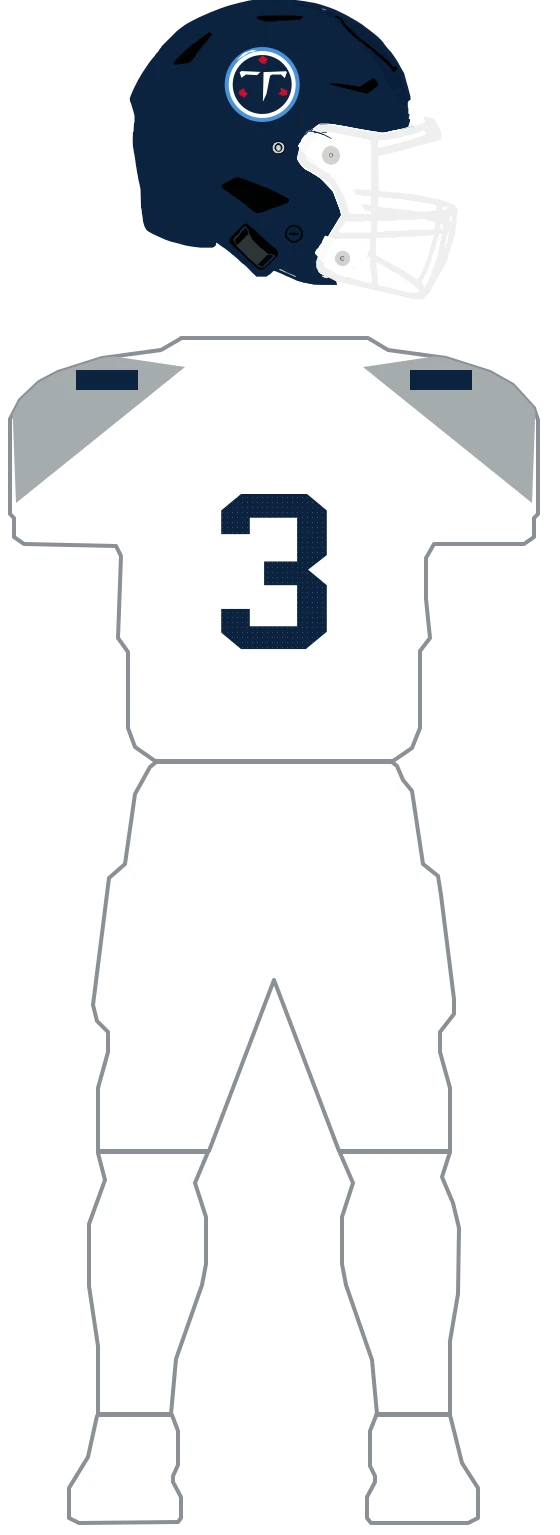
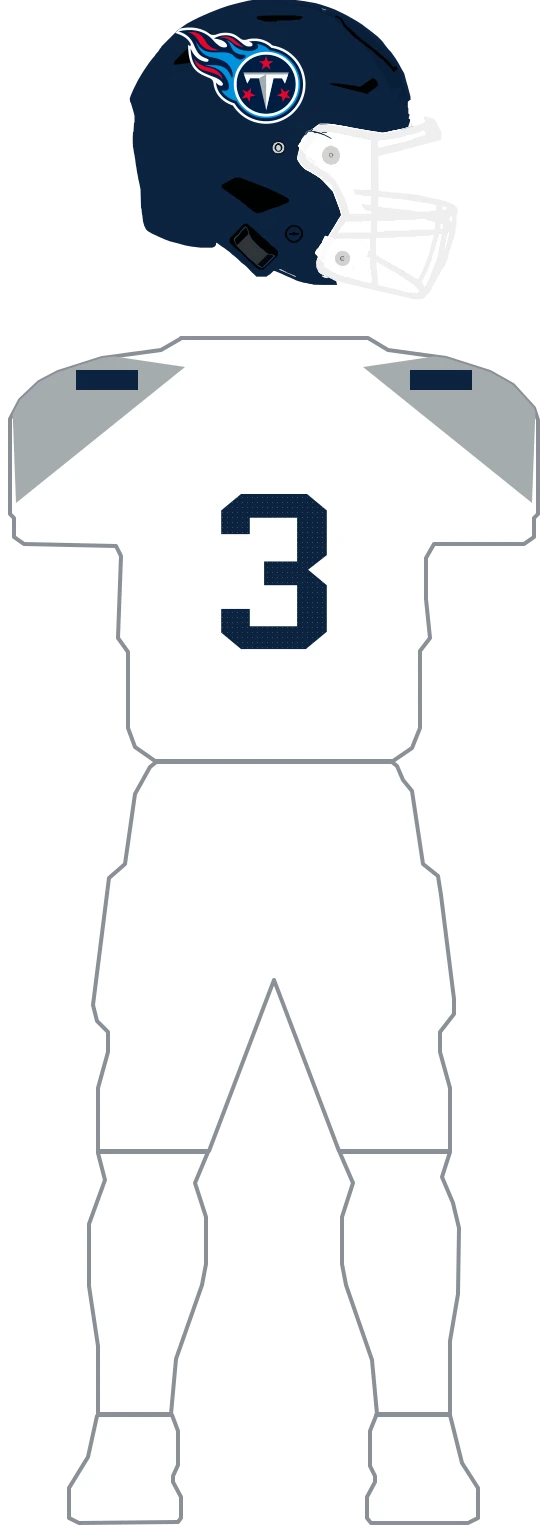
fix(uniforms): restore Titans flaming helmet decal and pants options (#763)

Changed region(s): [[0.3339, 0.0, 0.5464, 0.0919]]

diff --git a/lib/uniforms/teams/titans.ts b/lib/uniforms/teams/titans.ts
@@ -1,4 +1,4 @@
-// Tennessee's construction geometry — the circle-T decal paths, the silver shoulder yoke, and
+// Tennessee's construction geometry — the flaming-T decal paths, the silver shoulder yoke, and
 // the fixed construction colors only. The composable parts definition that consumes them lives in
 // ./titans.parts.ts; the former flat TITANS_UNIFORMS was deleted in the migration that proved
 // parts render byte-identically (see parts-parity.test.ts for the one-time gate).
@@ -12,27 +12,69 @@
 export const TITANS_SILVER = '#A5ACAF';
 export const TITANS_WHITE = '#FFFFFF';
 
-// Provenance: contour trace of the club's mark from the GUD composite — a reproduction
-// of a third-party mark, not original geometry. The mark is NON-FREE upstream
-// (Wikimedia `File:Tennessee Titans Logo 2026.svg`, fair use; trademarked). Licence audit: the
-// vault’s Decisions.md, 2026-09-03.
-//
-// The circle-T: the three rings are CONCENTRIC CIRCLES fitted to the measured disc; the T and the
-// three stars ARE traced. THE FLAME TAIL IS DROPPED (a four-color interleave about two px per band).
-// Re-derive the whole mark from a larger source before treating it as finished.
-export const TITANS_DECAL_RING_OUTER_PATH =
-  'M328.9,237.0 A75.0,75.0 0 1 0 478.9,237.0 A75.0,75.0 0 1 0 328.9,237.0 Z';
-export const TITANS_DECAL_RING_INNER_PATH =
-  'M336.9,237.0 A67.0,67.0 0 1 0 470.9,237.0 A67.0,67.0 0 1 0 336.9,237.0 Z';
-export const TITANS_DECAL_FIELD_PATH =
-  'M344.9,237.0 A59.0,59.0 0 1 0 462.9,237.0 A59.0,59.0 0 1 0 344.9,237.0 Z';
-export const TITANS_DECAL_T_PATH =
-  'M450.8,210.1 L453.5,212.2 L449.1,224.4 L441.5,217.0 L424.0,217.0 L419.6,219.5 L412.4,256.1 L405.3,271.5 L406.6,212.2 L450.4,210.5 Z M361.9,210.1 L400.4,211.8 L393.7,218.3 L371.3,217.0 L362.4,223.6 L358.8,213.0 L361.5,210.5 Z M383.8,167.9 L393.7,169.5 L377.1,173.1 L351.7,189.4 L366.9,174.0 L383.4,168.3 Z';
-export const TITANS_DECAL_STARS_PATH =
-  'M441.0,243.1 L454.0,249.2 L454.0,257.7 L445.0,259.7 L435.7,256.1 L441.5,250.8 L440.6,243.5 Z M367.3,243.9 L369.5,251.2 L375.3,255.3 L367.7,263.4 L356.6,255.7 L357.9,249.6 L366.9,244.3 Z M404.4,178.8 L415.1,186.1 L409.7,195.9 L402.1,194.3 L395.4,187.4 L403.9,179.2 Z';
-// No Titans palette carries the mark's red either — same reason as the silver above.
-export const TITANS_DECAL_RED = '#C8102E';
-export const TITANS_DECAL_LIGHT_BLUE = '#4B92DB';
+// Provenance: user-supplied Tennessee-Titans-Logo.svg (DEP-465), club trademark/non-free art.
+// Source SHA-256: f6a30a0b25bd536d0cd0b7ca4a9c3c69f8af022bdc88197f40779cc7d3f2dc4f
+// Direct vector paths and original colors; all 14 supplied paths are retained.
+// Placement only: https://www.gridiron-uniforms.com/GUD/controller/controller.php?action=teams-season&team_id=TEN&year=2025
+// Generated by scripts/uniform-draw/titans_decal.py; coordinates include placement.
+export const TITANS_DECAL_PATHS = [
+  {
+    fill: '#001C43',
+    d: 'M254.937,123.000 L262.461,123.000 L267.078,123.342 L273.405,124.368 L277.680,125.394 L282.126,126.762 L286.914,128.643 L290.506,130.353 L294.097,132.405 L297.688,134.799 L300.082,136.338 L302.305,137.364 L304.528,137.877 L308.461,137.877 L311.539,137.193 L316.327,135.483 L321.115,134.286 L324.535,133.773 L328.981,133.431 L332.401,133.431 L336.848,133.773 L340.610,134.457 L344.372,135.483 L347.792,136.851 L351.725,138.903 L354.974,141.126 L357.368,142.836 L359.933,144.888 L362.669,146.599 L364.892,147.454 L366.602,147.796 L369.851,147.796 L372.758,147.283 L376.178,146.257 L379.770,145.572 L381.822,145.230 L383.874,145.059 L392.595,145.059 L396.699,145.572 L401.145,146.428 L406.446,147.967 L410.550,149.677 L413.286,151.045 L416.706,152.926 L419.955,155.149 L422.349,157.030 L424.059,158.569 L425.428,159.082 L431.242,160.279 L436.030,161.647 L440.818,163.357 L443.725,164.554 L446.290,165.751 L449.539,167.461 L451.933,168.829 L456.037,171.394 L460.141,174.472 L462.022,176.011 L463.732,177.550 L465.613,179.089 L465.955,179.773 L466.639,180.115 L469.717,183.193 L471.770,185.587 L473.651,187.810 L475.703,190.546 L478.781,195.164 L480.662,198.413 L482.714,202.346 L484.253,205.595 L485.792,209.528 L487.502,214.658 L488.870,220.130 L489.725,225.089 L490.238,229.022 L490.580,235.178 L490.580,238.257 L490.238,244.584 L489.383,250.569 L488.699,254.160 L487.331,259.461 L485.450,264.933 L483.569,269.379 L481.688,273.312 L479.978,276.390 L477.926,279.639 L476.558,281.691 L474.506,284.428 L472.796,286.651 L470.743,289.045 L468.349,291.610 L465.100,294.859 L463.732,296.056 L461.167,298.279 L457.918,300.673 L455.011,302.725 L450.223,305.632 L445.606,308.026 L441.331,309.907 L437.227,311.446 L432.097,312.985 L425.941,314.353 L419.955,315.208 L414.654,315.550 L408.840,315.550 L403.710,315.208 L397.725,314.353 L394.476,313.669 L389.688,312.472 L384.045,310.591 L380.625,309.223 L376.520,307.342 L372.758,305.290 L370.193,303.751 L366.602,301.357 L363.353,298.963 L361.130,297.082 L359.249,295.543 L357.197,293.491 L355.829,292.294 L351.725,287.848 L349.844,285.454 L348.476,283.743 L346.253,280.494 L345.398,279.297 L345.398,278.955 L343.517,278.442 L339.755,276.903 L336.677,275.535 L333.086,273.654 L329.665,271.602 L326.758,269.550 L324.022,267.327 L322.312,265.959 L321.457,265.104 L320.431,263.907 L319.576,263.223 L318.037,261.342 L316.669,259.803 L314.275,256.554 L312.736,253.989 L310.684,250.056 L309.316,246.807 L308.119,243.216 L307.264,239.967 L306.751,237.059 L306.238,233.297 L305.554,230.732 L304.528,228.680 L302.989,226.970 L301.621,225.773 L298.885,224.234 L294.268,222.353 L289.138,220.130 L284.349,217.907 L280.587,215.855 L277.509,213.974 L275.286,212.435 L273.405,210.896 L271.695,209.357 L269.301,206.963 L267.762,205.082 L266.223,203.030 L264.342,200.123 L262.290,196.190 L260.751,192.599 L259.383,188.494 L258.015,183.022 L256.989,177.208 L256.305,170.881 L255.792,164.554 L255.792,157.201 L256.647,158.056 L258.015,159.253 L258.699,159.595 L260.067,159.595 L260.922,159.082 L261.093,158.740 L261.093,157.201 L260.238,154.807 L258.528,152.071 L256.305,149.164 L254.766,147.454 L254.082,146.599 L252.714,145.401 L251.517,144.375 L251.175,144.204 L251.175,143.862 L250.320,143.520 L248.268,141.981 L245.361,140.271 L241.428,138.219 L235.100,135.654 L230.312,134.115 L224.327,132.576 L219.368,131.550 L219.026,131.208 L222.788,129.669 L228.089,127.959 L232.364,126.762 L238.862,125.223 L242.967,124.368 L247.584,123.684 L252.030,123.171 Z',
+  },
+  {
+    fill: '#001C43',
+    d: 'M407.301,177.379 L416.193,177.379 L421.836,178.063 L426.625,179.089 L431.071,180.457 L435.175,181.996 L439.450,184.048 L442.528,185.758 L445.093,187.468 L447.487,189.178 L449.368,190.717 L451.762,192.770 L456.037,197.045 L457.576,198.926 L459.628,201.491 L461.680,204.569 L463.903,208.331 L466.126,212.948 L467.323,215.855 L468.862,220.814 L470.059,225.773 L470.743,231.587 L470.914,235.349 L470.914,237.572 L470.572,242.874 L469.888,247.491 L468.862,251.937 L467.494,256.383 L465.613,261.000 L464.245,263.907 L461.851,268.011 L459.970,270.747 L458.431,272.799 L456.892,274.680 L453.814,278.100 L452.104,279.810 L450.736,281.007 L448.513,282.888 L445.435,285.112 L442.870,286.822 L439.621,288.703 L434.833,290.926 L430.729,292.465 L426.796,293.662 L423.033,294.517 L418.587,295.201 L414.141,295.543 L409.353,295.543 L404.907,295.201 L402.000,294.859 L398.067,294.004 L392.082,292.294 L387.807,290.584 L385.071,289.216 L381.822,287.506 L378.059,285.112 L375.152,282.888 L372.929,281.007 L371.219,279.468 L367.457,275.706 L365.918,273.825 L363.524,270.747 L361.643,267.840 L360.104,265.275 L357.710,260.487 L356.342,257.067 L354.974,252.963 L353.777,248.175 L353.093,243.900 L352.751,240.309 L352.751,232.442 L353.264,227.654 L354.290,222.353 L355.658,217.565 L357.539,212.606 L358.736,210.041 L360.788,206.279 L362.669,203.372 L364.379,200.978 L366.260,198.584 L367.799,196.874 L368.996,195.506 L371.903,192.599 L373.784,191.059 L375.836,189.349 L378.914,187.126 L383.190,184.561 L387.636,182.338 L392.424,180.457 L396.357,179.260 L400.803,178.234 L405.420,177.550 Z',
+  },
+  {
+    fill: '#0092DD',
+    d: 'M332.230,148.138 L333.941,148.480 L336.164,149.506 L338.900,151.045 L341.294,152.926 L343.517,154.978 L345.398,156.859 L346.595,158.227 L347.963,159.766 L349.844,161.305 L351.896,162.844 L354.461,164.383 L358.736,166.435 L364.379,168.316 L368.312,169.171 L371.732,169.684 L373.784,169.855 L380.454,169.855 L384.558,169.342 L387.807,168.487 L390.372,167.461 L392.424,166.264 L394.134,164.725 L395.160,163.186 L395.673,161.476 L395.673,160.108 L394.989,158.227 L393.792,156.859 L393.108,156.175 L395.844,156.346 L399.606,157.030 L403.026,158.056 L406.959,159.766 L410.208,161.476 L413.286,163.528 L415.680,165.409 L418.074,167.461 L419.271,168.658 L424.914,169.513 L429.361,170.539 L434.320,172.078 L437.911,173.446 L442.015,175.327 L445.606,177.208 L449.710,179.773 L452.959,182.167 L455.353,184.048 L457.063,185.587 L458.431,186.784 L462.364,190.717 L463.903,192.599 L465.784,194.822 L468.007,197.900 L470.401,201.662 L472.625,205.766 L474.335,209.357 L475.874,213.290 L477.413,218.078 L478.439,222.353 L479.294,227.312 L479.636,230.732 L479.807,233.639 L479.807,239.112 L479.465,244.071 L478.610,249.543 L477.584,254.160 L476.216,258.606 L474.848,262.197 L472.967,266.301 L470.743,270.576 L468.520,274.167 L466.297,277.245 L464.074,279.981 L462.022,282.375 L460.654,283.743 L460.483,284.086 L460.141,284.086 L460.141,284.428 L459.799,284.428 L459.799,284.770 L459.457,284.770 L459.457,285.112 L458.089,286.309 L456.892,287.506 L455.011,289.045 L452.446,291.097 L449.026,293.491 L445.606,295.543 L441.502,297.766 L437.227,299.647 L432.439,301.357 L427.480,302.725 L422.178,303.751 L418.074,304.264 L415.509,304.435 L407.985,304.435 L402.684,303.922 L397.554,303.067 L392.253,301.699 L387.636,300.160 L383.190,298.279 L379.086,296.227 L375.323,294.004 L372.587,292.123 L370.535,290.584 L368.141,288.703 L366.089,286.822 L364.721,285.625 L361.643,282.546 L360.446,281.178 L358.565,278.955 L356.000,275.535 L353.777,272.115 L352.580,270.063 L347.792,268.695 L343.346,266.985 L339.071,264.933 L335.651,262.881 L332.401,260.487 L330.007,258.435 L326.587,255.015 L324.364,252.108 L322.825,249.714 L322.483,248.688 L324.364,249.030 L327.442,249.543 L330.178,249.543 L332.572,249.030 L334.283,248.175 L335.480,247.149 L336.506,245.439 L337.190,243.558 L337.361,242.532 L337.361,238.599 L336.677,235.178 L335.651,231.929 L334.283,228.509 L332.401,224.747 L330.349,221.327 L328.468,218.591 L326.587,216.197 L324.877,214.316 L323.680,212.948 L321.457,210.896 L318.550,208.673 L315.985,206.963 L312.907,205.253 L309.487,203.714 L303.844,201.833 L296.833,200.123 L292.558,198.926 L290.335,198.071 L290.164,197.729 L295.978,198.242 L311.026,198.413 L314.617,198.755 L318.550,199.439 L321.970,200.465 L324.706,201.491 L328.639,203.543 L331.546,205.595 L333.770,207.647 L335.480,209.528 L337.361,212.264 L339.413,216.026 L341.978,221.669 L342.833,222.866 L344.030,223.037 L344.714,222.353 L345.056,221.327 L345.056,216.710 L344.372,212.777 L343.346,209.357 L341.636,205.253 L340.097,202.517 L338.558,200.294 L337.190,198.584 L335.309,196.532 L334.112,195.335 L332.230,193.796 L330.007,192.086 L326.758,190.204 L324.022,188.836 L319.405,186.955 L314.104,185.245 L308.290,183.706 L299.569,181.825 L296.491,180.970 L293.242,179.602 L290.848,178.405 L288.454,176.866 L286.230,175.156 L284.520,173.617 L283.152,172.420 L281.271,170.368 L279.048,167.461 L277.167,164.554 L275.115,160.792 L273.405,156.859 L271.866,152.413 L272.037,151.729 L273.747,154.807 L276.141,158.227 L278.022,160.621 L279.903,162.673 L280.074,163.186 L280.758,163.528 L282.639,165.409 L284.862,167.119 L287.428,168.658 L289.993,169.855 L293.755,171.052 L298.714,172.078 L303.673,172.591 L305.896,172.762 L317.011,172.762 L322.312,172.591 L327.784,172.591 L332.059,172.933 L336.335,173.788 L339.413,174.814 L342.320,176.182 L345.056,178.063 L346.937,179.602 L349.673,182.167 L352.238,184.219 L354.974,185.758 L357.368,186.613 L359.591,186.955 L362.156,186.784 L365.234,185.758 L367.799,184.219 L369.851,182.338 L370.535,181.312 L370.706,179.773 L370.022,178.747 L368.141,177.892 L365.234,177.379 L360.617,176.866 L356.342,175.840 L352.238,174.130 L349.502,172.420 L347.621,170.881 L346.082,169.342 L344.714,167.461 L343.346,165.067 L341.123,160.450 L339.242,156.346 L337.703,153.610 L335.822,151.216 L333.941,149.506 L332.230,148.309 Z M407.301,177.379 L402.855,177.892 L398.409,178.747 L393.963,179.944 L389.688,181.483 L386.439,182.851 L383.190,184.561 L379.428,186.784 L377.033,188.494 L374.810,190.204 L372.587,192.086 L370.535,193.967 L367.970,196.532 L366.431,198.413 L364.721,200.465 L362.669,203.372 L360.617,206.621 L358.565,210.383 L357.368,213.119 L355.658,217.565 L354.290,222.353 L353.264,227.654 L352.751,232.442 L352.751,240.309 L353.264,245.097 L354.119,249.714 L355.487,254.673 L357.368,259.803 L360.104,265.275 L362.156,268.695 L364.208,271.602 L366.089,273.996 L368.141,276.390 L372.416,280.665 L374.297,282.204 L376.862,284.257 L379.941,286.309 L382.506,287.848 L386.439,289.900 L389.517,291.268 L392.595,292.465 L398.067,294.004 L400.119,294.517 L403.710,295.030 L406.617,295.372 L409.353,295.543 L414.141,295.543 L418.587,295.201 L423.033,294.517 L427.480,293.491 L433.636,291.439 L437.056,289.900 L439.792,288.532 L442.870,286.822 L445.435,285.112 L448.684,282.717 L451.249,280.494 L453.472,278.442 L455.011,276.903 L456.208,275.535 L458.089,273.312 L460.483,270.063 L462.364,267.156 L464.758,262.881 L466.639,258.606 L468.178,254.331 L469.204,250.740 L470.230,245.610 L470.743,241.164 L470.914,237.572 L470.914,235.349 L470.743,231.587 L470.059,225.773 L468.520,219.617 L467.152,215.513 L465.271,211.067 L463.561,207.647 L461.167,203.714 L458.944,200.636 L457.405,198.755 L455.353,196.361 L451.078,192.086 L449.197,190.546 L446.632,188.494 L443.554,186.442 L440.989,184.903 L436.714,182.680 L433.465,181.312 L427.822,179.431 L423.546,178.405 L419.442,177.721 L416.193,177.379 Z',
+  },
+  {
+    fill: '#FCFCFD',
+    d: 'M254.937,123.000 L262.461,123.000 L267.078,123.342 L273.405,124.368 L277.680,125.394 L282.126,126.762 L286.914,128.643 L290.506,130.353 L294.097,132.405 L297.688,134.799 L300.082,136.338 L302.305,137.364 L304.528,137.877 L308.461,137.877 L311.539,137.193 L316.327,135.483 L321.115,134.286 L324.535,133.773 L328.981,133.431 L332.401,133.431 L336.848,133.773 L340.610,134.457 L344.372,135.483 L347.792,136.851 L351.725,138.903 L354.974,141.126 L357.368,142.836 L359.933,144.888 L362.669,146.599 L364.892,147.454 L366.602,147.796 L369.851,147.796 L372.758,147.283 L376.178,146.257 L379.770,145.572 L381.822,145.230 L383.874,145.059 L392.595,145.059 L396.699,145.572 L401.145,146.428 L406.446,147.967 L410.550,149.677 L413.286,151.045 L416.706,152.926 L419.955,155.149 L422.349,157.030 L424.059,158.569 L425.428,159.082 L431.242,160.279 L436.030,161.647 L440.818,163.357 L443.725,164.554 L446.290,165.751 L449.539,167.461 L451.933,168.829 L456.037,171.394 L460.141,174.472 L462.022,176.011 L463.732,177.550 L465.613,179.089 L465.955,179.773 L466.639,180.115 L469.717,183.193 L471.770,185.587 L473.651,187.810 L475.703,190.546 L478.781,195.164 L480.662,198.413 L482.714,202.346 L484.253,205.595 L485.792,209.528 L487.502,214.658 L488.870,220.130 L489.725,225.089 L490.238,229.022 L490.580,235.178 L490.580,238.257 L490.238,244.584 L489.383,250.569 L488.699,254.160 L487.331,259.461 L485.450,264.933 L483.569,269.379 L481.688,273.312 L479.978,276.390 L477.926,279.639 L476.558,281.691 L474.506,284.428 L472.796,286.651 L470.743,289.045 L468.349,291.610 L465.100,294.859 L463.732,296.056 L461.167,298.279 L457.918,300.673 L455.011,302.725 L450.223,305.632 L445.606,308.026 L441.331,309.907 L437.227,311.446 L432.097,312.985 L425.941,314.353 L419.955,315.208 L414.654,315.550 L408.840,315.550 L403.710,315.208 L397.725,314.353 L394.476,313.669 L389.688,312.472 L384.045,310.591 L380.625,309.223 L376.520,307.342 L372.758,305.290 L370.193,303.751 L366.602,301.357 L363.353,298.963 L361.130,297.082 L359.249,295.543 L357.197,293.491 L355.829,292.294 L351.725,287.848 L349.844,285.454 L348.476,283.743 L346.253,280.494 L345.398,279.297 L345.398,278.955 L343.517,278.442 L339.755,276.903 L336.677,275.535 L333.086,273.654 L329.665,271.602 L326.758,269.550 L324.022,267.327 L322.312,265.959 L321.457,265.104 L320.431,263.907 L319.576,263.223 L318.037,261.342 L316.669,259.803 L314.275,256.554 L312.736,253.989 L310.684,250.056 L309.316,246.807 L308.119,243.216 L307.264,239.967 L306.751,237.059 L306.238,233.297 L305.554,230.732 L304.528,228.680 L302.989,226.970 L301.621,225.773 L298.885,224.234 L294.268,222.353 L289.138,220.130 L284.349,217.907 L280.587,215.855 L277.509,213.974 L275.286,212.435 L273.405,210.896 L271.695,209.357 L269.301,206.963 L267.762,205.082 L266.223,203.030 L264.342,200.123 L262.290,196.190 L260.751,192.599 L259.383,188.494 L258.015,183.022 L256.989,177.208 L256.305,170.881 L255.792,164.554 L255.792,157.201 L256.647,158.056 L258.015,159.253 L258.699,159.595 L260.067,159.595 L260.922,159.082 L261.093,158.740 L261.093,157.201 L260.238,154.807 L258.528,152.071 L256.305,149.164 L254.766,147.454 L254.082,146.599 L252.714,145.401 L251.517,144.375 L251.175,144.204 L251.175,143.862 L250.320,143.520 L248.268,141.981 L245.361,140.271 L241.428,138.219 L235.100,135.654 L230.312,134.115 L224.327,132.576 L219.368,131.550 L219.026,131.208 L222.788,129.669 L228.089,127.959 L232.364,126.762 L238.862,125.223 L242.967,124.368 L247.584,123.684 L252.030,123.171 Z M254.253,128.130 L248.439,128.643 L242.796,129.498 L237.836,130.524 L236.639,130.695 L236.639,131.037 L239.546,131.892 L243.651,133.431 L246.900,134.970 L250.149,136.851 L252.885,138.732 L255.621,140.955 L256.818,142.152 L257.673,142.836 L258.870,144.204 L260.238,145.743 L262.290,148.480 L264.000,151.216 L265.710,154.294 L266.907,156.688 L268.104,159.595 L269.301,162.160 L271.011,165.922 L272.379,168.316 L273.405,170.197 L275.115,172.933 L277.338,175.669 L278.877,177.379 L280.245,178.576 L282.297,180.115 L285.204,181.825 L288.454,183.364 L293.242,185.245 L295.978,186.613 L296.320,187.297 L296.491,187.810 L296.491,189.349 L295.807,190.717 L294.610,191.401 L293.755,191.572 L291.190,191.572 L287.770,190.888 L284.520,189.862 L281.784,188.836 L279.048,187.468 L276.312,185.758 L273.576,183.535 L271.524,181.654 L270.156,180.286 L268.617,178.405 L266.907,176.182 L265.197,173.617 L263.145,170.026 L261.435,166.435 L260.922,165.067 L260.751,165.067 L260.751,166.948 L261.435,174.130 L262.290,179.602 L263.487,185.074 L265.197,190.375 L266.736,193.967 L268.446,197.216 L270.498,200.294 L272.379,202.688 L274.260,204.740 L276.312,206.792 L279.219,209.015 L282.468,211.067 L284.862,212.435 L287.599,213.803 L290.848,215.342 L294.097,216.710 L295.978,217.565 L301.621,219.788 L308.461,222.353 L312.052,223.892 L314.617,225.260 L316.498,226.286 L319.405,228.338 L321.628,230.219 L322.996,231.587 L324.535,233.810 L325.219,235.520 L325.219,237.401 L324.535,238.428 L324.022,238.941 L323.167,239.283 L320.089,239.283 L317.695,238.428 L315.301,236.888 L313.591,235.349 L311.539,233.297 L311.881,236.888 L312.736,240.822 L314.446,245.952 L315.472,248.346 L317.182,251.595 L318.721,253.989 L320.431,256.383 L322.483,258.777 L324.364,260.829 L325.561,262.026 L326.929,263.223 L329.665,265.446 L333.257,267.840 L336.164,269.550 L339.071,271.089 L344.372,273.312 L348.647,274.851 L350.357,277.587 L352.409,280.494 L354.290,282.888 L356.171,285.112 L357.710,286.822 L360.275,289.558 L362.327,291.439 L364.208,293.149 L366.602,295.030 L368.825,296.740 L372.416,299.134 L374.981,300.673 L377.375,302.041 L380.283,303.409 L382.335,304.435 L387.294,306.316 L392.082,307.855 L397.212,309.052 L402.513,309.907 L405.762,310.249 L408.669,310.420 L414.825,310.420 L419.613,310.078 L424.572,309.394 L429.361,308.368 L434.320,307.000 L439.108,305.290 L443.725,303.238 L446.974,301.528 L448.855,300.502 L452.275,298.450 L455.182,296.398 L458.260,294.004 L460.654,291.952 L463.219,289.558 L465.955,286.822 L467.152,285.454 L469.375,282.888 L471.428,280.152 L473.651,276.903 L475.532,273.825 L477.242,270.747 L478.781,267.498 L479.807,265.275 L481.346,261.171 L482.714,256.896 L483.911,252.108 L484.766,247.149 L485.279,242.361 L485.450,239.283 L485.450,234.152 L485.108,229.193 L484.253,223.208 L483.227,218.591 L482.030,214.316 L480.491,209.870 L479.465,207.305 L478.268,204.911 L476.900,202.004 L474.848,198.413 L472.112,194.309 L470.059,191.572 L468.520,189.691 L466.639,187.468 L463.903,184.561 L462.193,182.851 L460.825,181.654 L458.260,179.431 L455.182,177.037 L451.078,174.301 L448.513,172.762 L446.119,171.394 L440.647,168.829 L435.688,166.948 L431.242,165.580 L426.112,164.383 L422.178,163.699 L420.981,162.502 L419.100,160.963 L416.706,159.082 L414.141,157.372 L410.550,155.320 L407.985,154.123 L403.881,152.584 L399.777,151.387 L396.357,150.703 L392.082,150.190 L384.216,150.190 L379.941,150.703 L377.375,151.216 L377.888,151.558 L380.625,152.413 L382.335,153.439 L383.703,154.636 L384.558,156.346 L384.558,158.056 L384.045,159.253 L382.848,160.279 L381.309,160.792 L380.454,160.963 L375.836,160.963 L372.929,160.279 L370.193,159.082 L366.944,157.030 L364.721,155.320 L362.840,153.781 L360.617,151.900 L358.223,150.019 L356.171,148.309 L352.751,145.743 L349.160,143.349 L346.424,141.810 L344.030,140.784 L340.781,139.758 L336.677,138.903 L333.257,138.561 L328.126,138.561 L323.509,139.074 L319.405,139.929 L315.985,140.955 L311.710,142.665 L308.803,144.204 L307.606,145.059 L307.606,145.230 L311.026,145.572 L315.130,146.257 L319.063,147.283 L322.483,148.480 L325.732,150.019 L328.126,151.558 L330.349,153.439 L332.230,155.662 L333.257,157.372 L333.599,158.398 L333.599,160.621 L332.914,161.647 L331.375,162.502 L330.007,162.844 L326.416,162.844 L322.996,162.160 L320.773,161.305 L319.234,160.450 L316.669,158.740 L314.446,157.030 L312.052,154.978 L309.316,152.413 L307.264,150.190 L305.212,147.796 L303.673,146.257 L302.818,145.230 L301.450,144.033 L299.227,141.981 L296.833,140.100 L293.926,138.048 L290.848,136.167 L287.086,134.115 L282.126,132.063 L278.022,130.695 L273.234,129.498 L268.275,128.643 L262.803,128.130 Z',
+  },
+  {
+    fill: '#FCFCFD',
+    d: 'M408.156,171.736 L415.509,171.736 L420.981,172.249 L425.599,173.104 L430.387,174.301 L435.346,176.011 L439.279,177.721 L443.041,179.602 L446.461,181.654 L449.710,183.877 L452.104,185.758 L453.985,187.297 L456.208,189.349 L460.141,193.283 L461.680,195.164 L463.390,197.216 L465.442,200.123 L467.494,203.372 L469.204,206.450 L470.572,209.186 L472.454,213.632 L473.822,217.736 L474.848,221.498 L475.703,225.944 L476.216,229.877 L476.387,232.100 L476.387,240.651 L475.874,245.610 L475.019,250.398 L473.822,255.015 L472.112,259.974 L470.059,264.591 L468.007,268.524 L466.126,271.602 L463.732,275.022 L461.851,277.416 L460.312,279.126 L459.115,280.494 L454.840,284.770 L452.959,286.309 L450.907,288.019 L448.000,290.071 L445.093,291.952 L441.331,294.004 L437.056,296.056 L433.465,297.424 L429.874,298.621 L425.086,299.818 L419.955,300.673 L416.364,301.015 L411.576,301.186 L405.078,300.844 L401.145,300.331 L396.186,299.305 L391.398,297.937 L387.294,296.398 L383.874,294.859 L380.454,293.149 L377.033,291.097 L374.297,289.216 L372.245,287.677 L370.364,286.138 L368.141,284.257 L363.524,279.639 L361.985,277.758 L360.275,275.706 L358.052,272.628 L356.000,269.379 L353.777,265.275 L351.896,261.171 L350.186,256.554 L348.989,252.279 L347.963,247.491 L347.450,243.729 L347.108,239.796 L347.108,232.955 L347.621,227.654 L348.305,223.550 L349.331,219.275 L350.699,214.829 L352.067,211.238 L353.948,207.134 L356.000,203.372 L359.078,198.755 L360.788,196.532 L362.327,194.651 L364.379,192.257 L368.483,188.152 L370.364,186.613 L373.100,184.390 L376.862,181.825 L379.428,180.286 L383.190,178.234 L386.952,176.524 L392.082,174.643 L397.896,173.104 L401.487,172.420 L405.762,171.907 Z M407.301,177.379 L402.855,177.892 L398.409,178.747 L393.963,179.944 L389.688,181.483 L386.439,182.851 L383.190,184.561 L379.428,186.784 L377.033,188.494 L374.810,190.204 L372.587,192.086 L370.535,193.967 L367.970,196.532 L366.431,198.413 L364.721,200.465 L362.669,203.372 L360.617,206.621 L358.565,210.383 L357.368,213.119 L355.658,217.565 L354.290,222.353 L353.264,227.654 L352.751,232.442 L352.751,240.309 L353.264,245.097 L354.119,249.714 L355.487,254.673 L357.368,259.803 L360.104,265.275 L362.156,268.695 L364.208,271.602 L366.089,273.996 L368.141,276.390 L372.416,280.665 L374.297,282.204 L376.862,284.257 L379.941,286.309 L382.506,287.848 L386.439,289.900 L389.517,291.268 L392.595,292.465 L398.067,294.004 L400.119,294.517 L403.710,295.030 L406.617,295.372 L409.353,295.543 L414.141,295.543 L418.587,295.201 L423.033,294.517 L427.480,293.491 L433.636,291.439 L437.056,289.900 L439.792,288.532 L442.870,286.822 L445.435,285.112 L448.684,282.717 L451.249,280.494 L453.472,278.442 L455.011,276.903 L456.208,275.535 L458.089,273.312 L460.483,270.063 L462.364,267.156 L464.758,262.881 L466.639,258.606 L468.178,254.331 L469.204,250.740 L470.230,245.610 L470.743,241.164 L470.914,237.572 L470.914,235.349 L470.743,231.587 L470.059,225.773 L468.520,219.617 L467.152,215.513 L465.271,211.067 L463.561,207.647 L461.167,203.714 L458.944,200.636 L457.405,198.755 L455.353,196.361 L451.078,192.086 L449.197,190.546 L446.632,188.494 L443.554,186.442 L440.989,184.903 L436.714,182.680 L433.465,181.312 L427.822,179.431 L423.546,178.405 L419.442,177.721 L416.193,177.379 Z',
+  },
+  {
+    fill: '#A3ADB2',
+    d: 'M366.260,212.777 L457.063,212.777 L456.892,213.632 L454.669,220.130 L451.762,228.338 L450.565,231.758 L449.539,234.665 L449.197,234.665 L446.803,230.219 L444.580,226.286 L443.554,224.576 L426.454,224.405 L426.112,226.286 L422.691,241.335 L422.178,243.558 L418.587,259.290 L418.074,261.513 L414.141,278.784 L412.089,287.848 L411.747,288.190 L410.550,283.059 L407.643,270.405 L405.078,259.119 L403.710,253.134 L400.974,240.993 L398.238,229.022 L397.212,224.576 L379.770,224.405 L379.428,225.260 L378.059,227.825 L376.007,231.416 L374.126,234.665 L373.784,234.323 L371.048,226.628 L369.509,222.182 L366.602,213.974 Z',
+  },
+  {
+    fill: '#FCFDFD',
+    d: 'M411.747,216.881 L455.524,216.881 L455.353,218.078 L451.591,228.851 L449.539,234.665 L449.197,234.665 L446.803,230.219 L444.580,226.286 L443.554,224.576 L426.454,224.405 L426.112,226.286 L422.691,241.335 L422.178,243.558 L418.587,259.290 L418.074,261.513 L414.141,278.784 L412.260,286.993 L412.089,287.335 L411.747,287.335 Z',
+  },
+  {
+    fill: '#E7042D',
+    d: 'M259.554,131.892 L264.855,131.892 L268.617,132.405 L271.866,133.260 L274.431,134.286 L277.167,135.654 L279.732,137.364 L281.955,139.245 L283.665,140.784 L285.717,143.007 L287.941,145.914 L289.651,148.480 L291.361,151.387 L292.900,153.781 L294.610,156.004 L296.149,157.714 L298.201,159.766 L300.424,161.476 L303.160,163.186 L305.725,164.554 L309.658,166.093 L313.762,167.119 L316.498,167.461 L316.327,167.803 L312.052,168.658 L310.513,168.829 L304.015,168.829 L299.569,168.145 L295.978,167.119 L293.242,166.093 L289.651,164.212 L286.914,162.331 L285.033,160.792 L281.784,157.543 L280.074,155.320 L278.364,152.755 L276.654,149.677 L274.260,146.086 L272.550,143.862 L270.669,141.639 L267.762,138.732 L264.855,136.509 L262.290,134.970 L259.725,133.773 L256.647,132.918 L255.279,132.576 L255.279,132.405 Z',
+  },
+  {
+    fill: '#E7042D',
+    d: 'M268.104,184.732 L268.446,185.245 L269.814,187.810 L271.182,189.691 L273.063,191.743 L274.260,192.941 L277.167,195.164 L280.245,197.045 L282.981,198.413 L286.914,200.123 L291.703,201.662 L298.201,203.201 L302.134,204.227 L306.067,205.595 L310.342,207.647 L312.907,209.186 L315.130,210.896 L316.840,212.435 L319.063,214.658 L320.773,216.881 L322.654,220.130 L324.022,223.550 L324.535,225.602 L324.364,226.115 L322.483,223.892 L321.286,222.524 L319.918,221.327 L317.353,219.446 L315.130,218.078 L312.394,216.710 L309.316,215.342 L303.160,213.290 L297.175,211.580 L288.967,209.357 L285.546,208.160 L282.810,206.792 L280.074,205.253 L277.851,203.543 L275.799,201.662 L274.602,200.465 L272.892,198.242 L271.011,195.164 L269.472,191.572 L268.617,188.665 L268.104,185.929 Z',
+  },
+  {
+    fill: '#FCFDFD',
+    d: 'M367.799,216.881 L410.892,216.881 L410.037,217.565 L405.249,220.130 L401.316,222.353 L397.554,224.405 L379.770,224.405 L379.428,225.260 L378.059,227.825 L376.007,231.416 L374.126,234.665 L373.784,234.323 L371.048,226.628 L369.509,222.182 L367.799,217.394 Z',
+  },
+  {
+    fill: '#E7042D',
+    d: 'M411.576,180.115 L411.918,180.457 L414.996,189.862 L414.996,190.204 L425.770,190.204 L425.770,190.546 L419.613,194.993 L417.390,196.532 L417.732,198.071 L419.784,204.056 L420.639,206.621 L420.468,206.963 L417.390,204.740 L414.483,202.688 L411.918,200.807 L410.721,201.491 L408.498,203.201 L405.249,205.595 L403.197,207.134 L403.026,206.792 L406.104,197.045 L405.933,196.532 L400.119,192.428 L397.554,190.546 L397.554,190.375 L406.617,190.204 L408.327,190.033 L411.405,180.286 Z',
+  },
+  {
+    fill: '#E7042D',
+    d: 'M381.480,243.729 L381.651,243.729 L381.309,248.175 L380.625,254.673 L381.480,254.844 L387.294,257.409 L390.543,258.777 L390.030,259.119 L380.625,261.171 L379.941,261.171 L379.599,265.959 L379.086,271.089 L378.914,271.944 L378.401,271.431 L373.613,263.223 L373.442,262.881 L371.390,263.223 L362.840,265.104 L363.182,264.420 L365.405,262.026 L366.944,260.145 L369.509,257.409 L369.680,256.554 L366.773,251.595 L364.550,247.833 L364.721,247.491 L369.680,249.714 L373.955,251.595 L374.810,251.424 L376.007,250.056 L378.059,247.662 L379.770,245.781 L380.967,244.413 Z',
+  },
+  {
+    fill: '#E7042D',
+    d: 'M441.673,243.900 L443.896,246.123 L445.093,247.491 L447.145,249.714 L448.684,251.424 L449.368,251.595 L458.260,247.491 L458.773,247.662 L456.379,251.937 L453.985,256.041 L453.643,256.896 L456.208,259.632 L457.405,261.000 L459.970,263.736 L460.654,264.762 L459.115,264.591 L450.052,262.710 L449.710,263.736 L447.316,267.840 L444.922,272.115 L444.751,272.115 L443.896,264.762 L443.554,261.513 L440.818,260.829 L433.123,259.290 L433.123,258.948 L439.108,256.212 L442.528,254.673 L442.870,254.673 L442.699,254.331 L441.673,245.268 Z',
+  },
+  {
+    fill: '#E7042D',
+    d: 'M327.784,141.126 L332.401,141.126 L335.822,141.639 L339.071,142.494 L341.807,143.520 L344.714,145.059 L346.937,146.599 L349.160,148.480 L351.554,150.532 L353.606,152.413 L355.487,153.952 L357.197,155.491 L360.617,158.056 L363.695,159.937 L366.944,161.476 L366.944,161.647 L363.695,161.476 L360.275,160.963 L357.026,160.108 L354.290,159.082 L351.554,157.714 L348.989,156.175 L345.740,153.781 L343.004,151.558 L341.294,150.190 L339.071,148.480 L335.993,146.599 L332.401,145.059 L328.810,144.033 L325.048,143.520 L319.747,143.520 L320.431,143.007 L323.167,141.981 L326.416,141.297 Z',
+  },
+] as const;
 
 // The shoulder yoke — silver covers the whole shoulder cap and tapers down the sleeve to a point;
 // the navy bar inside it runs reference x45-65 at y142-149.

diff --git a/lib/uniforms/teams/titans.parts.ts b/lib/uniforms/teams/titans.parts.ts
@@ -1,8 +1,8 @@
-// Tennessee authored as composable parts. Geometry is imported unchanged from titans.ts — this
+// Tennessee authored as composable parts. Geometry is imported from titans.ts — this
 // file only restates WHICH parts each kit combines, and names every color from the team palette
 // instead of the kit row's shifting primary/secondary/accent.
 //
-// The four kits resolve to two helmets: the navy shell wearing the circle-T (home, away, navy-alt
+// The four kits resolve to two helmets: the navy shell wearing the flaming-T (home, away, navy-alt
 // share it) and the oilers throwback.s light-blue shell (no decal — its mark is a different logo with
 // no figure on the sheet). The silver shoulder yoke is one construction in four colorways: the
 // yoke itself is always the silver literal, and the navy bar inside it is the kit's navy. The
@@ -16,13 +16,7 @@
 import {
   TITANS_BAR_LEFT,
   TITANS_BAR_RIGHT,
-  TITANS_DECAL_FIELD_PATH,
-  TITANS_DECAL_LIGHT_BLUE,
-  TITANS_DECAL_RED,
-  TITANS_DECAL_RING_INNER_PATH,
-  TITANS_DECAL_RING_OUTER_PATH,
-  TITANS_DECAL_STARS_PATH,
-  TITANS_DECAL_T_PATH,
+  TITANS_DECAL_PATHS,
   TITANS_SILVER,
   TITANS_YOKE_LEFT,
   TITANS_YOKE_RIGHT,
@@ -49,55 +43,20 @@ function shoulders(bar: string): PartLayer[] {
   }));
 }
 
-// The circle-T decal: light-blue ring, white ring, navy field, white T, red stars. Fixed art on
-// the navy shell — the mark is the same five colors wherever it is worn, so nothing here takes a
-// team token. The oilers throwback does NOT get it (its white shell carries a different mark).
+// The complete supplied flaming-T, in original SVG paint order and colors.
+// The historical Oilers helmet carries a different mark and does not receive this decal.
 function decal(): PartLayer[] {
-  return [
-    {
-      id: 'titans-decal-ring-outer',
-      surface: 'helmet',
-      d: TITANS_DECAL_RING_OUTER_PATH,
-      clip: true,
-      kind: 'fill',
-      fill: 'decalLightBlue',
-    },
-    {
-      id: 'titans-decal-ring-inner',
-      surface: 'helmet',
-      d: TITANS_DECAL_RING_INNER_PATH,
-      clip: true,
-      kind: 'fill',
-      fill: 'white',
-    },
-    {
-      id: 'titans-decal-field',
-      surface: 'helmet',
-      d: TITANS_DECAL_FIELD_PATH,
-      clip: true,
-      kind: 'fill',
-      fill: 'decalNavy',
-    },
-    {
-      id: 'titans-decal-t',
-      surface: 'helmet',
-      d: TITANS_DECAL_T_PATH,
-      clip: true,
-      kind: 'fill',
-      fill: 'white',
-    },
-    {
-      id: 'titans-decal-stars',
-      surface: 'helmet',
-      d: TITANS_DECAL_STARS_PATH,
-      clip: true,
-      kind: 'fill',
-      fill: 'decalRed',
-    },
-  ];
+  return TITANS_DECAL_PATHS.map(({ d, fill }, index) => ({
+    id: `titans-decal-${index}`,
+    surface: 'helmet',
+    d,
+    clip: true,
+    kind: 'fill',
+    fill,
+  }));
 }
 
-// The navy shell with the circle-T — one object, shared by home, away and navy-alt.
+// The navy shell with the flaming-T — one object, shared by home, away and navy-alt.
 //
 // White cage. The Titans' navy shell wears a white facemask (named sources: the 2026 rebrand
 // "helmet is white with white facemask", and the pre-rebrand navy-shell era wore white/gray; the
@@ -161,9 +120,8 @@ export const TITANS_PARTS: TeamPartsDefinition = {
     red: '#C8102E',
     white: '#FFFFFF',
     silver: TITANS_SILVER,
-    decalLightBlue: TITANS_DECAL_LIGHT_BLUE,
-    decalRed: TITANS_DECAL_RED,
-    decalNavy: '#0C2340',
+    // Every decal hex is preserved from Cooper's supplied Tennessee-Titans-Logo.svg.
+    ...Object.fromEntries(TITANS_DECAL_PATHS.map(({ fill }) => [fill, fill])),
   },
   helmets: { 'navy-t': HELMET_NAVY_T, white: HELMET_WHITE },
   jerseys: {
@@ -173,11 +131,15 @@ export const TITANS_PARTS: TeamPartsDefinition = {
     'light-blue': JERSEY_LIGHT_BLUE,
   },
   pants: { navy: PANTS_NAVY, white: PANTS_WHITE, lightBlue: PANTS_LIGHT_BLUE },
+  // Pants colors: GUD 2025 shows white only; GUD 2024 supplies the archived navy/light-blue
+  // combinations and white Oilers pants. Preserve legacy canonical pairings first (including
+  // the Oilers light-blue pairing); this pass adds options without repainting those rasters.
+  // https://www.gridiron-uniforms.com/GUD/controller/controller.php?action=teams-season&team_id=TEN&year=2024
   kits: {
-    home: { helmet: 'navy-t', jersey: 'navy', pants: 'navy' },
-    away: { helmet: 'navy-t', jersey: 'white', pants: 'white' },
-    'navy-alt': { helmet: 'navy-t', jersey: 'navy-alt', pants: 'navy' },
-    'oilers-throwback': { helmet: 'white', jersey: 'light-blue', pants: 'lightBlue' },
+    home: { helmet: 'navy-t', jersey: 'navy', pants: ['navy', 'lightBlue'] },
+    away: { helmet: 'navy-t', jersey: 'white', pants: ['white', 'lightBlue'] },
+    'navy-alt': { helmet: 'navy-t', jersey: 'navy-alt', pants: ['navy', 'lightBlue'] },
+    'oilers-throwback': { helmet: 'white', jersey: 'light-blue', pants: ['lightBlue', 'white'] },
   },
 };
 

diff --git a/scripts/uniform-draw/titans_decal.py b/scripts/uniform-draw/titans_decal.py
@@ -1,0 +1,78 @@
+"""Bake Cooper's Tennessee-Titans-Logo.svg directly into the Titans decal (DEP-465).
+
+Usage: python3 scripts/uniform-draw/titans_decal.py /path/to/Tennessee-Titans-Logo.svg
+Preserve all 14 paths, their original colors and paint order; no trace or simplification.
+GUD 2025 supplies placement only: shell approximately x65..154/y28..115,
+flaming-T x78..121/y37..68. Transferring its left/top offsets and width to the
+raw shell x139..702/y65..637 yields x218/y123/width276. Preserve source aspect,
+with no rotation: the flame already rises toward the rear. Historical Oilers
+art is a different mark and is not replaced by the supplied modern logo.
+"""
+
+import hashlib
+import re
+import sys
+import xml.etree.ElementTree as ET
+from pathlib import Path
+
+
+def bake(element):
+    # The supplied file uses only relative polygon commands and per-path translations.
+    tx, *rest = map(float, re.findall(r'-?\d+(?:\.\d+)?', element.attrib['transform']))
+    ty = rest[0] if rest else 0
+    tokens = re.findall(r'[mlhvz]|-?\d+(?:\.\d+)?', element.attrib['d'])
+    x = y = sx = sy = 0
+    out = []
+    i = 0
+    command = None
+    while i < len(tokens):
+        if tokens[i].isalpha():
+            command = tokens[i]
+            i += 1
+        if command == 'z':
+            out.append('Z')
+            x, y = sx, sy
+            continue
+        if command in ('m', 'l'):
+            x += float(tokens[i])
+            y += float(tokens[i + 1])
+            i += 2
+        elif command == 'h':
+            x += float(tokens[i])
+            i += 1
+        elif command == 'v':
+            y += float(tokens[i])
+            i += 1
+        else:
+            raise ValueError(f'Unsupported command: {command}')
+        move = command == 'm'
+        if move:
+            sx, sy = x, y
+            command = 'l'
+        # Source silhouette bounds x226..1840/y13..1139, fitted to the GUD placement box.
+        px = 218 + (x + tx - 226) * 276 / 1614
+        py = 123 + (y + ty - 13) * 276 / 1614
+        out.append(f'{"M" if move else "L"}{px:.3f},{py:.3f}')
+    return ' '.join(out)
+
+
+source = Path(sys.argv[1]).read_bytes()
+root = ET.fromstring(source)
+target = Path(__file__).resolve().parents[2] / 'lib/uniforms/teams/titans.ts'
+text = target.read_text()
+start = text.index('// Provenance:')
+end = text.index('// The shoulder yoke', start)
+header = (
+    '// Provenance: user-supplied Tennessee-Titans-Logo.svg (DEP-465), club trademark/non-free art.\n'
+    f'// Source SHA-256: {hashlib.sha256(source).hexdigest()}\n'
+    '// Direct vector paths and original colors; all 14 supplied paths are retained.\n'
+    '// Placement only: https://www.gridiron-uniforms.com/GUD/controller/controller.php?'
+    'action=teams-season&team_id=TEN&year=2025\n'
+    '// Generated by scripts/uniform-draw/titans_decal.py; coordinates include placement.\n'
+    'export const TITANS_DECAL_PATHS = [\n'
+)
+paths = ''.join(
+    f"  {{ fill: '{element.attrib['fill']}', d: '{bake(element)}' }},\n"
+    for element in root
+)
+target.write_text(text[:start] + header + paths + '] as const;\n\n' + text[end:])
